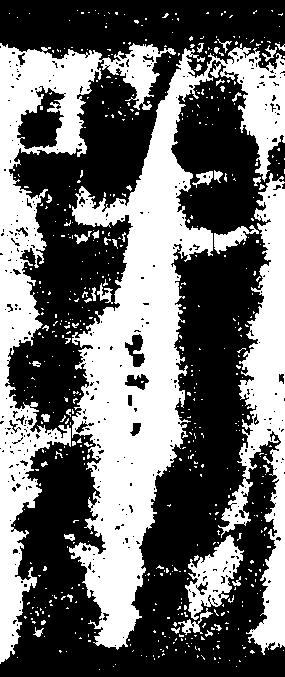
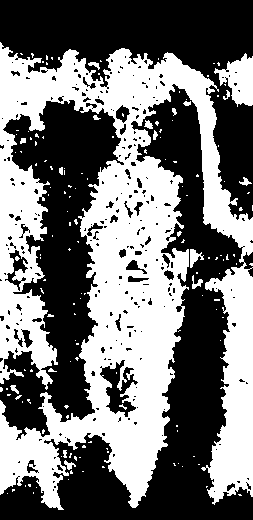
0

diff --git a/house/227/testTuoyuan.py b/house/227/testTuoyuan.py
@@ -119,14 +119,14 @@ def xdog(im, gamma=0.98, phi=200, eps=-0.1, k=1.6, sigma=0.8, binarize=False):
         imdiff = imdiff >= th
     imdiff = imdiff.astype('float32')
     
-    imgShape = imdiff.shape
-    if imgShape[0]>imgShape[1]:
-        imdiff[int(0.25*imgShape[0]):int(0.75*imgShape[0]),int(0.25*imgShape[1])] = 1
-        imdiff[int(0.25*imgShape[0]):int(0.75*imgShape[0]),int(0.75*imgShape[1])] = 1
-    else:
-        imdiff[int(0.25*imgShape[0]),int(0.25*imgShape[1]):int(0.75*imgShape[1])] = 1
-        imdiff[int(0.75*imgShape[0]),int(0.25*imgShape[1]):int(0.75*imgShape[1])] = 1
-    imFill(imdiff)
+    # imgShape = imdiff.shape
+    # if imgShape[0]>imgShape[1]:
+    #     imdiff[int(0.25*imgShape[0]):int(0.75*imgShape[0]),int(0.25*imgShape[1])] = 1
+    #     imdiff[int(0.25*imgShape[0]):int(0.75*imgShape[0]),int(0.75*imgShape[1])] = 1
+    # else:
+    #     imdiff[int(0.25*imgShape[0]),int(0.25*imgShape[1]):int(0.75*imgShape[1])] = 1
+    #     imdiff[int(0.75*imgShape[0]),int(0.25*imgShape[1]):int(0.75*imgShape[1])] = 1
+    
     return imdiff
 
 def getShape(i2):
@@ -238,9 +238,11 @@ def process2(im):
     # fea1 =  process2(i1)
     # fea2 =  process2(i2)
 
-    imgIn = np.array(imgIn,dtype=np.uint8)*255
 
-    imgIn = getMaxRegion(imgIn)
+    ###################################################################################
+    # imgIn = np.array(imgIn,dtype=np.uint8)*255
+    # imgIn = getMaxRegion(imgIn)
+    ###################################################################################
 
     cv2.imwrite("out33333.png", 255*imgIn)
     fe = imgIn * im 
@@ -289,10 +291,11 @@ def t2c(img):
         trans_img = cv2.transpose(img)
         img = cv2.flip(trans_img, 1)
         imgShape = img.shape
-    
+        
+    img = img[:,int(0.2*imgShape[1]):int(0.8*imgShape[1])]
     # print(imgShape)
     # print("=============")
-    
+    imgShape = img.shape
     
     h = imgShape[0]*0.5
     # print(hh)
@@ -301,7 +304,7 @@ def t2c(img):
     # # print(r)
     # h =  r
 
-    t = 2*math.sqrt(r**2/(1.7*h**2+r**2))
+    t = math.sqrt(r**2/(0.75*h**2+0.25*r**2))
     # print(t)
     
     upper = img[0:int(0.5*imgShape[0]),:]
@@ -342,11 +345,17 @@ def t2c(img):
 
 if __name__ == '__main__':
 
-    p2 = "D:\\getWeld\\pipeweld\\710-F-199-4-0000.jpg"
-    p1 = "D:\\getWeld\\pipeweld\\711-F-200-4-0000.jpg"
+    # p2 = "D:\\getWeld\\pipeweld\\pipelineCode-576-weldingCode-1_0001.jpg"
+    # p1 = "D:\\getWeld\\pipeweld\\pipelineCode-576-weldingCode-1_0002.jpg"
+
+    # p2 = "D:\\getWeld\\pipeweld\\pipelineCode-576-weldingCode-1_0002.jpg"
+    # p1 = "D:\\getWeld\\pipeweld\\pipelineCode-576-weldingCode-1_0004.jpg"
+
+    p1 = "D:\\getWeld\\pipeweld\\pipelineCode-51X51-3-weldingCode-1_0001.jpg"
+    p2 = "D:\\getWeld\\pipeweld\\pipelineCode-51X51-3-weldingCode-1_0002.jpg"
 
 
-    import cv2
+    # import cv2
     import matplotlib.pyplot as plt
 
     i1 = imread(p1)
@@ -359,8 +368,10 @@ if __name__ == '__main__':
         fea1 = t2c(process2(i1))
         fea2 = t2c(process2(i2))
 
-        fea1 = np.array(fea1)
-        fea2 = np.array(fea2)
+        fea1 = np.array(fea1,dtype=np.float32)
+        # print(type(fea1))
+        fea2 = np.array(fea2,dtype=np.float32)
+        # print()
 
         # print(fea1.shape)
         # print(fea2.shape)
@@ -368,9 +379,11 @@ if __name__ == '__main__':
 
 
         r11 = fea1[int(0.25*len(fea1)):int(0.75*len(fea1))]
-        print(r11.shape)
+        # print(type(r11))
         r22 = fea2[int(0.25*len(fea2)):int(0.75*len(fea2))]
-        print(r22.shape)
+        # print(r22.shape)
+        # print(r11.shape)
+        # print(r22.shape)
 
         res = cv2.matchTemplate(fea1, r22, cv2.TM_CCOEFF_NORMED)
         # res = cv2.matchTemplate(fea1[int(0.15*len(fea1)):int(0.85*len(fea1))], r22, cv2.TM_CCOEFF_NORMED)

diff --git a/house/227/testPipe.py b/house/227/testPipe.py
@@ -232,6 +232,9 @@ def process2(im):
     # im = local_threshold(im)
     # fea1 =  process2(i1)
     # fea2 =  process2(i2)
+    imgIn = np.array(imgIn,dtype=np.uint8)*255
+
+    imgIn = getMaxRegion(imgIn)
 
     cv2.imwrite("out33333.png", 255*imgIn)
     fe = imgIn * im 
@@ -288,7 +291,10 @@ if __name__ == '__main__':
         fea2 = process2(i2)
 
         r11 = fea1[int(0.25*len(fea1)):int(0.75*len(fea1))]
+
+        print(type(r11))
         r22 = fea2[int(0.25*len(fea2)):int(0.75*len(fea2))]
+        print(r22.shape)
 
         res = cv2.matchTemplate(fea1[int(0.15*len(fea1)):int(0.85*len(fea1))], r22, cv2.TM_CCOEFF_NORMED)
         min_val1, max_val, _, _ = cv2.minMaxLoc(res)

diff --git a/func/35.py b/func/35.py
@@ -1,0 +1,27 @@
+'''
+@lanhuage: python
+@Descripttion: 
+@version: beta
+@Author: xiaoshuyui
+@Date: 2020-04-09 08:38:00
+@LastEditors: xiaoshuyui
+@LastEditTime: 2020-04-09 08:52:43
+'''
+
+
+def func1(a:int,b:int):
+    print(a)
+    print(b)
+    print(a + b)
+
+
+if __name__=="__main__":
+    a = 4
+    b = 6
+    print(a + b)
+    func1(b=11,a=7)
+
+    # print("============")
+    # print(a)
+    # print(b)
+

diff --git a/func/35_1.py b/func/35_1.py
@@ -1,0 +1,23 @@
+'''
+@lanhuage: python
+@Descripttion: 
+@version: beta
+@Author: xiaoshuyui
+@Date: 2020-04-09 08:53:43
+@LastEditors: xiaoshuyui
+@LastEditTime: 2020-04-09 08:56:30
+'''
+
+
+
+def func2(a:int,b:str,c=None):
+    print(b)
+    if c is not None:
+        print(c)
+    
+
+
+if __name__ == "__main__":
+    a = "aaaa"
+    b = "bbbb"
+    func2(a=a,b=b)

diff --git a/func/35：函数参数。知道什么叫参数吗，就是——.md b/func/35：函数参数。知道什么叫参数吗，就是——.md
@@ -1,0 +1,69 @@
+<!--
+ * @lanhuage: python
+ * @Descripttion: 
+ * @version: beta
+ * @Author: xiaoshuyui
+ * @Date: 2020-04-09 08:22:36
+ * @LastEditors: xiaoshuyui
+ * @LastEditTime: 2020-04-09 08:58:06
+ -->
+&emsp;&emsp;以前学c语言的时候，接触到函数，就讲到全局变量跟局部变量。（python中也有全局变量跟局部变量的概念，不过跟现在讲的广义上的全局变量有点区别，会用global这个关键字修饰，而且一般情况下不怎么会用到这个）
+
+&emsp;&emsp;那时候说全局变量跟局部变量的意思就是强龙不压地头蛇，全局变量指的是龙，局部变量指的是地头蛇。举个例子：
+
+    def func1(a:int,b:int):
+        print(a)
+        print(b)
+        print(a + b)
+
+
+    if __name__=="__main__":
+        a = 4
+        b = 6
+        print(a + b)
+        func1(a=4,b=7)
+        print("============")
+        print(a)
+        print(b)
+
+    
+    PS C:\Users\admin> & D:/anaconda/python.exe d:/testALg/homework/func/35.py
+    10
+    4
+    7
+    11
+    ============
+    4
+    6
+
+&emsp;&emsp;这里，在主函数里边的a,b赋值是4跟6,但是在调用函数的时候给函数的参数a,b赋值成4跟7，最后的结果就是11。而其实在主函数中a,b两者的值并没有发生变化。
+
+&emsp;&emsp;怎么通俗易懂地理解呢？可以认为所有的函数，不管它输入时的变量名定义成什么，跟主函数没有半毛钱关系，比方说古代英国有句谚语叫作“风能进，雨能进，国王不能进”，就是主函数这个“国王”管不着自定义或者预设好的函数这个“小庙”。当然，如果调用的时候写成
+
+    func1(a,b)
+
+这样，那结果就是10了，因为这相当于
+
+    func1(a=a,b=b)
+
+&emsp;&emsp;记住，这里函数里边参数如果有“=”号，左边是设置函数的时候定义的函数局部的变量名，右边是值；如果明确变量名是可以调换参数顺序的。如果省略等号，那么值要跟变量一一对应。
+
+    func1(b=11,a=7)
+    18
+
+&emsp;&emsp;python3不知道哪个版本开始支持参数类型的预设，这个也是遇到过的：
+
+    def func2(a:int,b:str,c=None):
+        print(b)
+        if c is not None:
+            print(c)
+        
+    if __name__ == "__main__":
+        a = "aaaa"
+        b = "bbbb"
+        func2(a=a,b=b)
+
+    PS C:\Users\admin> & D:/anaconda/python.exe d:/testALg/homework/func/35_1.py
+    bbbb
+
+&emsp;&emsp;事实证明其实没有什么用，python并不会因为你设置成int了就限定你只能输入int。只是在写代码写到这个函数的时候会有提示。
